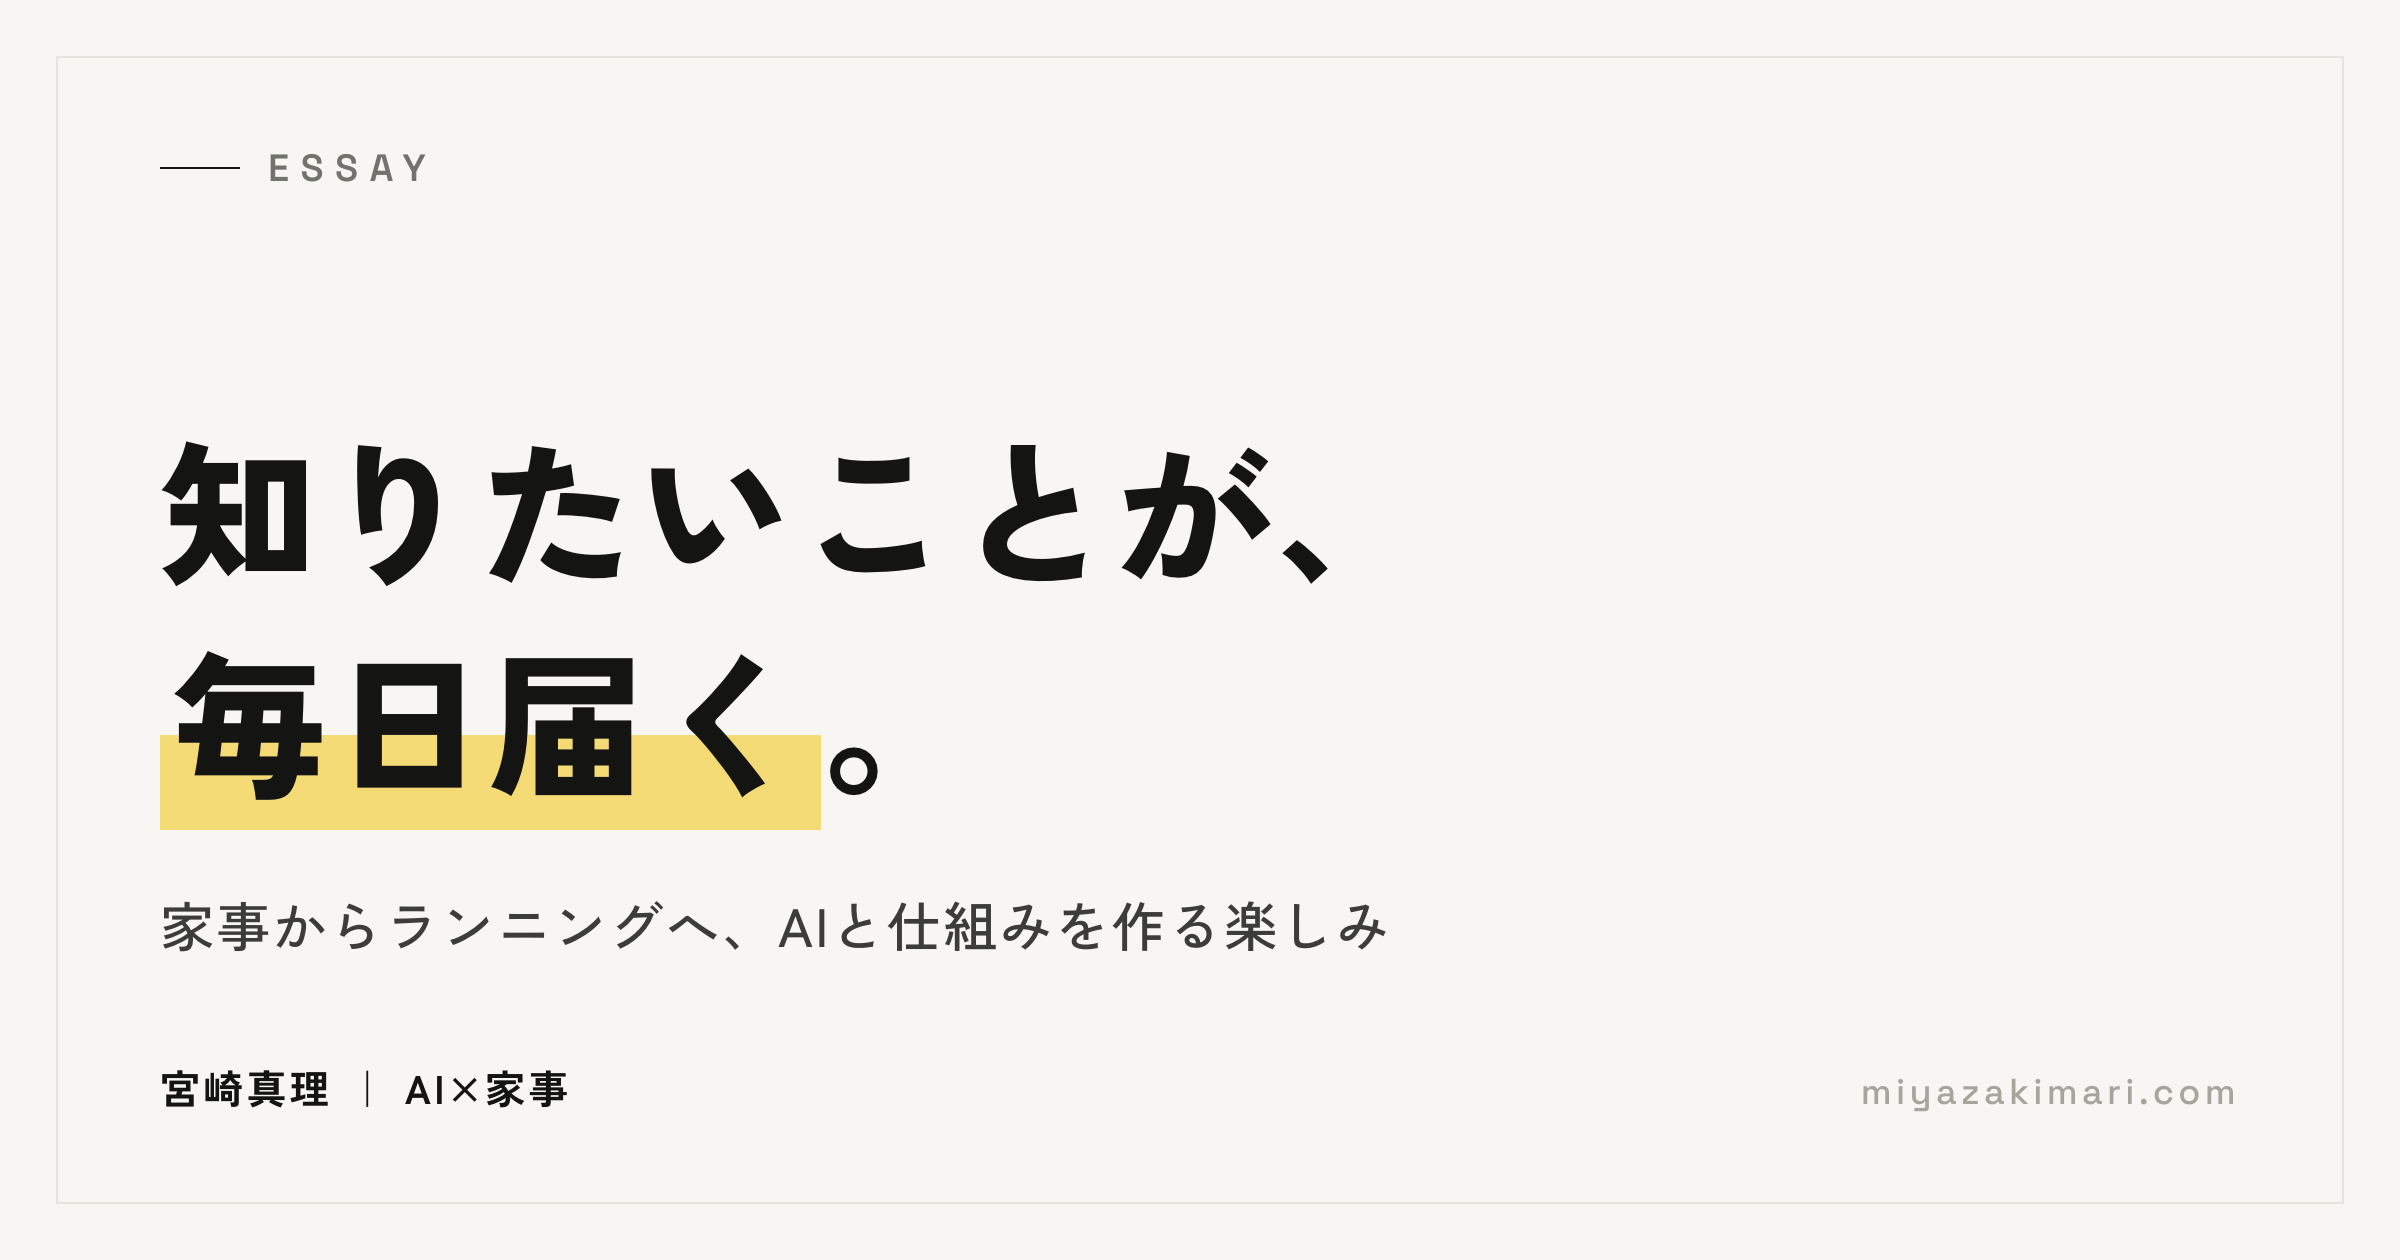
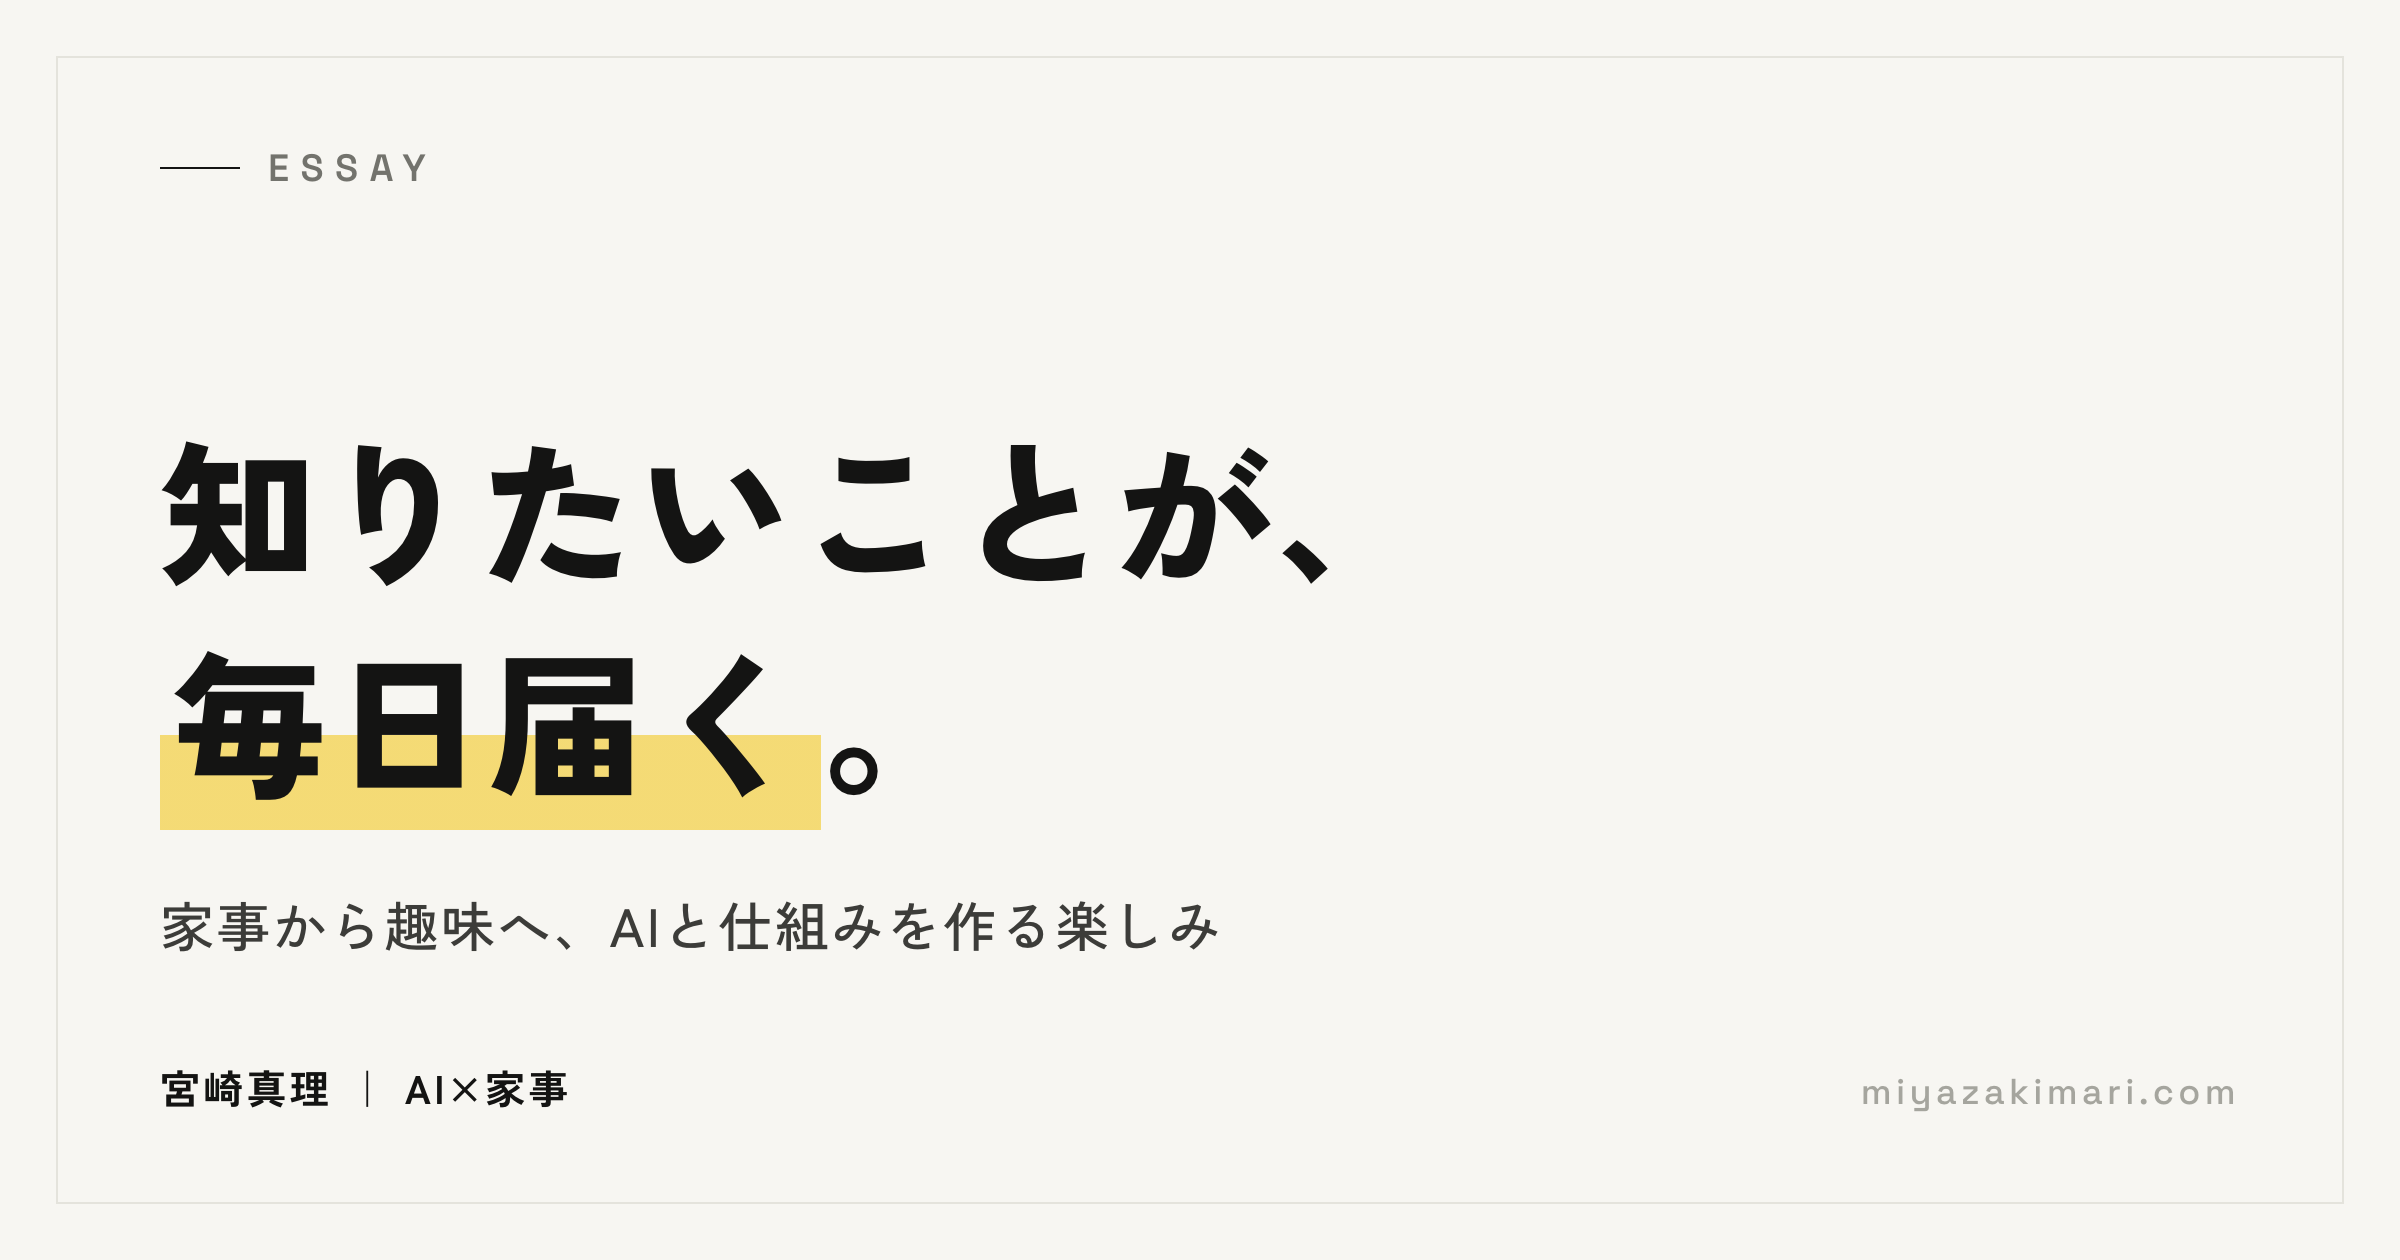
6本目の記事タイトルを家事から趣味へ修正

Changed region(s): [[0.1562, 0.7119, 0.5312, 0.7738], [0.5625, 0.7119, 0.5938, 0.7429]]

diff --git a/articles/ai-personal-running-system/index.html b/articles/ai-personal-running-system/index.html
@@ -17,7 +17,7 @@
   <meta property="og:site_name" content="宮崎真理 ポートフォリオ">
   <meta property="og:type" content="article">
   <meta property="og:locale" content="ja_JP">
-  <meta property="og:title" content="知りたいことが、毎日届く。家事からランニングへ、AIと仕組みを作る楽しみ">
+  <meta property="og:title" content="知りたいことが、毎日届く。家事から趣味へ、AIと仕組みを作る楽しみ">
   <meta property="og:description" content="家族の図書館管理からランニングの振り返りへ。知りたいことが毎日届く仕組みを、生成AIと作り、使いながら育てる実践を紹介します。">
   <meta property="og:url" content="https://miyazakimari.com/articles/ai-personal-running-system/">
   <meta property="og:image" content="https://miyazakimari.com/articles/ai-personal-running-system/cover.png">
@@ -27,7 +27,7 @@
   <meta property="article:modified_time" content="2026-09-07">
   <meta property="article:author" content="宮崎真理">
   <meta name="twitter:card" content="summary_large_image">
-  <meta name="twitter:title" content="知りたいことが、毎日届く。家事からランニングへ、AIと仕組みを作る楽しみ">
+  <meta name="twitter:title" content="知りたいことが、毎日届く。家事から趣味へ、AIと仕組みを作る楽しみ">
   <meta name="twitter:description" content="家族の図書館管理からランニングへ。知りたい情報が毎日届く仕組みを、生成AIと作り、使いながら育てる実践です。">
   <meta name="twitter:image" content="https://miyazakimari.com/articles/ai-personal-running-system/cover.png">
 
@@ -35,7 +35,7 @@
   {
     "@context": "https://schema.org",
     "@type": "Article",
-    "headline": "知りたいことが、毎日届く。家事からランニングへ、AIと仕組みを作る楽しみ",
+    "headline": "知りたいことが、毎日届く。家事から趣味へ、AIと仕組みを作る楽しみ",
     "description": "家族の図書館管理からランニングの振り返りへ広がった生成AIの実践を紹介。知りたいことが毎日届く仕組みを、使いながら自分に合う道具へ直していく過程をつづります。",
     "inLanguage": "ja",
     "datePublished": "2026-09-07",
@@ -448,14 +448,14 @@
       </ol>
     </nav>
     <p class="eyebrow">Essay</p>
-    <h1>知りたいことが、毎日届く。家事からランニングへ、AIと仕組みを作る楽しみ</h1>
+    <h1>知りたいことが、毎日届く。家事から趣味へ、AIと仕組みを作る楽しみ</h1>
     <p class="byline">
       <span class="byline-name">宮崎真理</span>
       <span>公開 <time datetime="2026-09-07">2026年9月7日</time></span>
       <span>更新 <time datetime="2026-09-07">2026年9月7日</time></span>
     </p>
 
-    <img class="article-cover" src="cover.png" alt="記事の表紙。「知りたいことが、毎日届く。家事からランニングへ、AIと仕組みを作る楽しみ」宮崎真理｜AI×家事" width="1200" height="630" loading="lazy">
+    <img class="article-cover" src="cover.png" alt="記事の表紙。「知りたいことが、毎日届く。家事から趣味へ、AIと仕組みを作る楽しみ」宮崎真理｜AI×家事" width="1200" height="630" loading="lazy">
 
     <article>
       <p>私は、家事や子育てで生成AIを使った経験を『AI×家事』という本にまとめ、日々の実践を発信している。AIに相談しているうちに、使い方は少しずつ広がってきた。最近は、答えをもらうだけでなく、必要な情報が自分に届く仕組みも、AIと一緒に作っている。</p>

diff --git a/articles/generative-ai-beyond-time-saving/index.html b/articles/generative-ai-beyond-time-saving/index.html
@@ -550,7 +550,7 @@
     <div class="related">
       <p class="eyebrow">関連記事</p>
       <ul>
-        <li><a href="../ai-personal-running-system/">知りたいことが、毎日届く。家事からランニングへ、AIと仕組みを作る楽しみ</a></li>
+        <li><a href="../ai-personal-running-system/">知りたいことが、毎日届く。家事から趣味へ、AIと仕組みを作る楽しみ</a></li>
         <li><a href="../voice-input-for-ai-at-home/">母の手は、よくふさがっている。家庭のAI活用に音声入力が合った理由</a></li>
         <li><a href="../generative-ai-home-systems/">生成AIで家庭の不便を仕組みにする——家事に正解がなくても役立つ理由</a></li>
         <li><a href="../what-to-ask-generative-ai/">生成AIに何を聞けばいい？日常の小さな質問から使い方を広げる方法</a></li>

diff --git a/articles/what-to-ask-generative-ai/index.html b/articles/what-to-ask-generative-ai/index.html
@@ -561,7 +561,7 @@
     <div class="related">
       <p class="eyebrow">関連記事</p>
       <ul>
-        <li><a href="../ai-personal-running-system/">知りたいことが、毎日届く。家事からランニングへ、AIと仕組みを作る楽しみ</a></li>
+        <li><a href="../ai-personal-running-system/">知りたいことが、毎日届く。家事から趣味へ、AIと仕組みを作る楽しみ</a></li>
         <li><a href="../voice-input-for-ai-at-home/">母の手は、よくふさがっている。家庭のAI活用に音声入力が合った理由</a></li>
         <li><a href="../generative-ai-beyond-time-saving/">時短もいいけれど。「続かなかったこと」をAIと考える</a></li>
         <li><a href="../generative-ai-home-systems/">生成AIで家庭の不便を仕組みにする——家事に正解がなくても役立つ理由</a></li>

diff --git a/articles/why-i-became-interested-in-generative-ai/index.html b/articles/why-i-became-interested-in-generative-ai/index.html
@@ -563,7 +563,7 @@
     <div class="related">
       <p class="eyebrow">関連記事</p>
       <ul>
-        <li><a href="../ai-personal-running-system/">知りたいことが、毎日届く。家事からランニングへ、AIと仕組みを作る楽しみ</a></li>
+        <li><a href="../ai-personal-running-system/">知りたいことが、毎日届く。家事から趣味へ、AIと仕組みを作る楽しみ</a></li>
         <li><a href="../voice-input-for-ai-at-home/">母の手は、よくふさがっている。家庭のAI活用に音声入力が合った理由</a></li>
         <li><a href="../generative-ai-beyond-time-saving/">時短もいいけれど。「続かなかったこと」をAIと考える</a></li>
         <li><a href="../generative-ai-home-systems/">生成AIで家庭の不便を仕組みにする——家事に正解がなくても役立つ理由</a></li>

diff --git a/articles/voice-input-for-ai-at-home/index.html b/articles/voice-input-for-ai-at-home/index.html
@@ -520,7 +520,7 @@
     <div class="related">
       <p class="eyebrow">関連記事</p>
       <ul>
-        <li><a href="../ai-personal-running-system/">知りたいことが、毎日届く。家事からランニングへ、AIと仕組みを作る楽しみ</a></li>
+        <li><a href="../ai-personal-running-system/">知りたいことが、毎日届く。家事から趣味へ、AIと仕組みを作る楽しみ</a></li>
         <li><a href="../generative-ai-home-systems/">生成AIで家庭の不便を仕組みにする——家事に正解がなくても役立つ理由</a></li>
         <li><a href="../what-to-ask-generative-ai/">生成AIに何を聞けばいい？日常の小さな質問から使い方を広げる方法</a></li>
         <li><a href="../generative-ai-beyond-time-saving/">時短もいいけれど。「続かなかったこと」をAIと考える</a></li>

diff --git a/articles/generative-ai-home-systems/index.html b/articles/generative-ai-home-systems/index.html
@@ -525,7 +525,7 @@
     <div class="related">
       <p class="eyebrow">関連記事</p>
       <ul>
-        <li><a href="../ai-personal-running-system/">知りたいことが、毎日届く。家事からランニングへ、AIと仕組みを作る楽しみ</a></li>
+        <li><a href="../ai-personal-running-system/">知りたいことが、毎日届く。家事から趣味へ、AIと仕組みを作る楽しみ</a></li>
         <li><a href="../voice-input-for-ai-at-home/">母の手は、よくふさがっている。家庭のAI活用に音声入力が合った理由</a></li>
         <li><a href="../generative-ai-beyond-time-saving/">時短もいいけれど。「続かなかったこと」をAIと考える</a></li>
         <li><a href="../what-to-ask-generative-ai/">生成AIに何を聞けばいい？日常の小さな質問から使い方を広げる方法</a></li>

diff --git a/index.html b/index.html
@@ -4021,7 +4021,7 @@
         </a>
         <a class="articles-item" href="articles/ai-personal-running-system/index.html">
           <span>
-            <span class="articles-title">知りたいことが、毎日届く。家事からランニングへ、AIと仕組みを作る楽しみ</span>
+            <span class="articles-title">知りたいことが、毎日届く。家事から趣味へ、AIと仕組みを作る楽しみ</span>
             <span class="articles-excerpt">家族の図書館管理からランニングへ。知りたい情報が毎日届く仕組みを、生成AIと作り、使いながら育てる実践です。</span>
             <span class="articles-meta">2026.09.07</span>
           </span>

diff --git a/design/thumbnails/articles/ai-personal-running-system.html b/design/thumbnails/articles/ai-personal-running-system.html
@@ -51,7 +51,7 @@
     <p class="eyebrow">Essay</p>
 
     <h1 class="headline">知りたいことが、<br><span class="mark">毎日届く</span>。</h1>
-    <p class="sub">家事からランニングへ、AIと仕組みを作る楽しみ</p>
+    <p class="sub">家事から趣味へ、AIと仕組みを作る楽しみ</p>
 
     <div class="foot">
       <span class="byline">宮崎真理 ｜ AI×家事</span>
